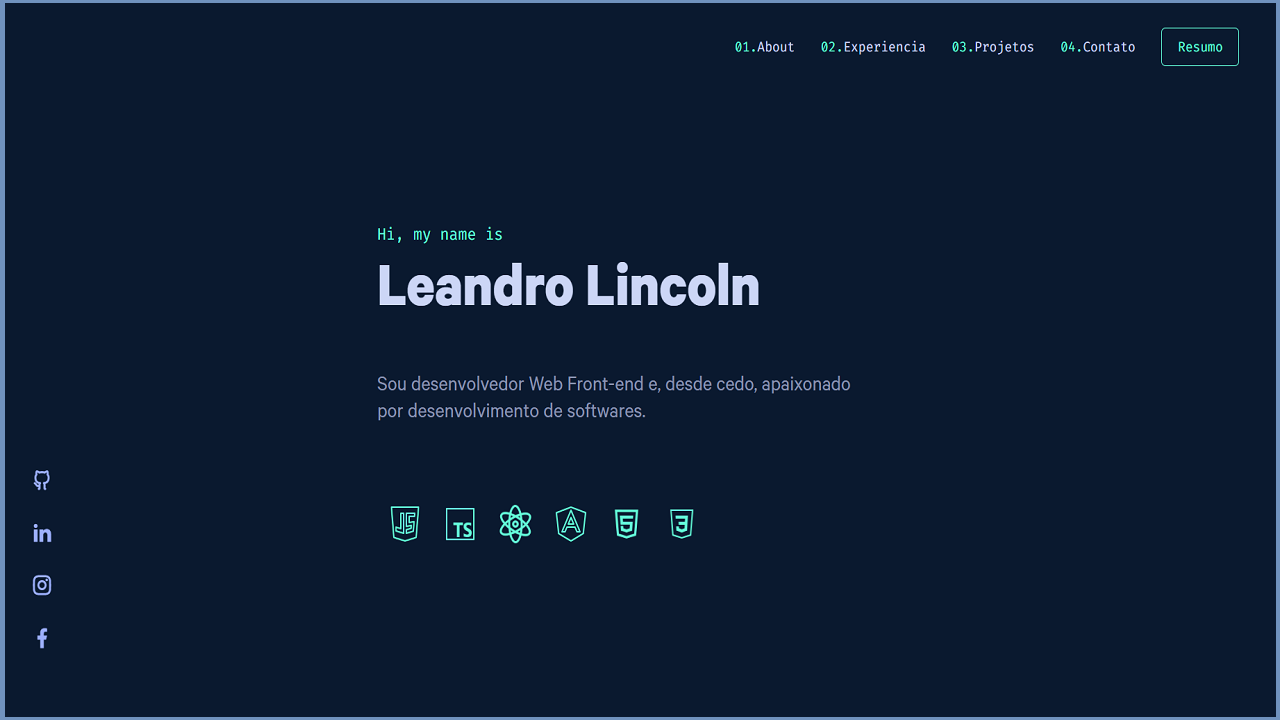
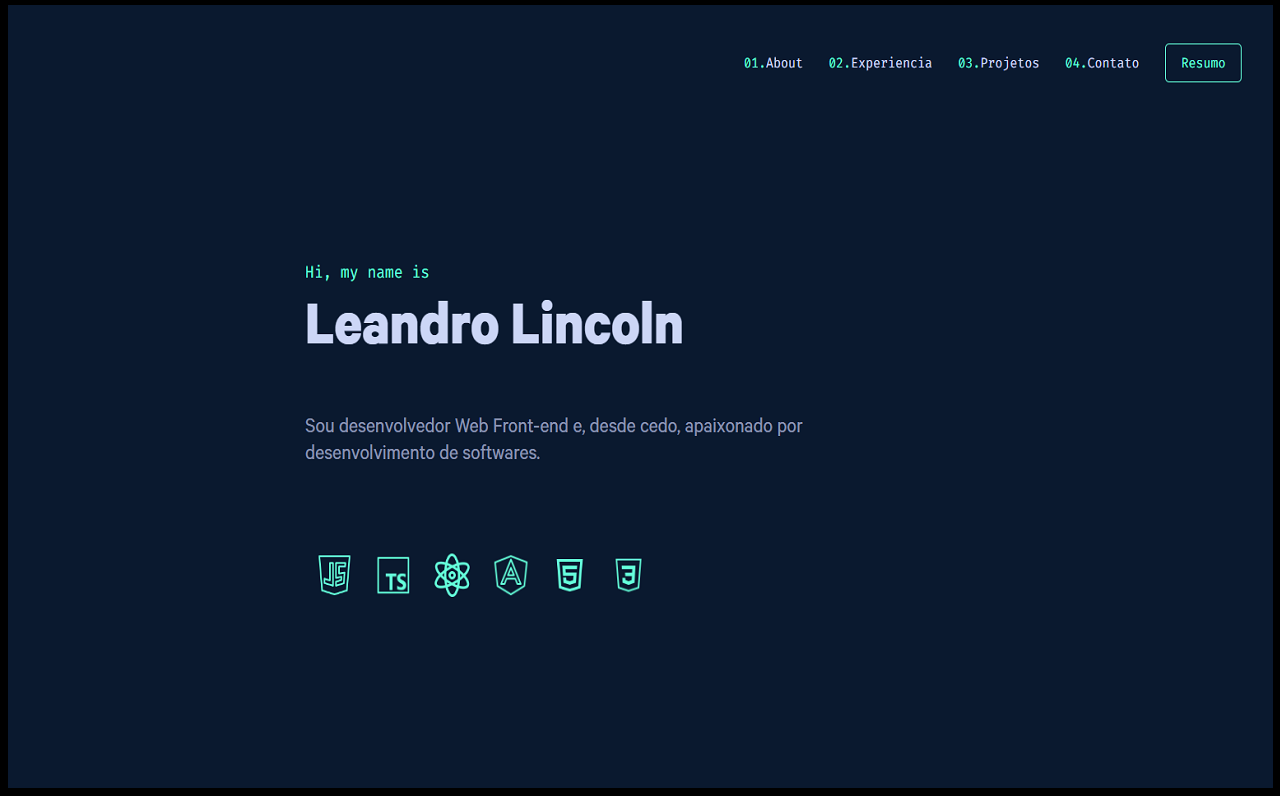
Ajustes CSS, barra lateral e contato

diff --git a/index.html b/index.html
@@ -8,7 +8,7 @@
     <meta charset="UTF-8">
     <meta http-equiv="X-UA-Compatible" content="IE=edge">
     <meta name="viewport" content="width=device-width, initial-scale=1.0">
-    <title>Portifolio</title>
+    <title>Portfolio</title>
     <link rel="stylesheet" href="./Styles/style.css">
 </head>
 
@@ -33,21 +33,26 @@
 
 
 
-    <!-- ================= NAV LATERAL ==================== -->
+    <!-- ================= NAV LATERAL ESQUERDA ==================== -->
 
 
-    <nav class="navLateral">
+    <nav class="navLateral-l">
         <a class="ri-github-line"  href="https://github.com/leandrolinkolnr" target="_blank"></a>
         <a class="ri-linkedin-fill" href="https://www.linkedin.com/in/leandrolincoln" target="_blank"></a>
         <a class="ri-instagram-line" href="https://www.instagram.com/leandrolinkoln/" target="_blank"></a>
         <a class="ri-facebook-fill" href="https://www.facebook.com/leandro.linkoln" target="_blank"></a>
-        <p>|</p>
-        <p>|</p>
-        <p>|</p>
+        
+        <div id="linha-vertical-l"></div>
 
     </nav>
 
 
+    <!-- ================= NAV LATERAL DIREITA ==================== -->
+
+    <nav class="navLateral-r">
+        <a class="navLateral-r__email" href="mailto:leandrolinkoln13@gmail.com?" target="_blank">leandrolinkoln13@gmail.com</a>
+        <div id="linha-vertical-r"></div>
+    </nav>
 
 
 <!-- ================= APRESENTAÇÃO PRINCIPAL ==================== -->
@@ -78,7 +83,7 @@
     <!-- ================= ABOUT ==================== -->
 
 
-        <h1 id="about" class="about__titulo">About.me  _____________________________</h1>
+        <h1 id="about" class="about__titulo">01. About.me  _____________________________</h1>
         <section class="conteudo__about"> 
         <xxx class="about__texto">
             
@@ -112,16 +117,16 @@
     <!-- ================= EXPERIENCIA ==================== -->
 
 
-    <h1 class="categoria__experiencia">Experiência  _____________________</h1>
+    <h1 id="experiencia" class="categoria__experiencia">Experiência  _____________________</h1>
 
-    <section id="experiencia" class="experienciaSection"> 
+    <section class="experienciaSection"> 
         <h3 class="experiencia__titulo"> Desenvolvedor front end</h3>
             <h6> Set 2022 - Mar 2023</h6>
         <br />
         <br />
         <p class="experiencia__texto"> Desenvolvedor web no Núcleo de Tecnologias Estratégicas em Saúde (NUTES),
             contribuindo como desenvolvedor front-end nos sistemas da Secretaria de Estado da Fazenda (Sefaz-PB), 
-            mais especificamente no Gostex: Gerenciador de notas fiscais dos postos de combustiveis da paraiba.
+            mais especificamente na Gerência Operacional de Fiscalização da Substituição Tributária e Comércio Exterior (GOSTEX).
         </p>
     </section>
 
@@ -138,7 +143,7 @@
     <section  class="projetos_section A"> 
         <p class="projetos__tituloA"> Cronômetro de estudos</p>
         <a href="https://alura-studies-rust.vercel.app" target="_blank"> 
-             <img class="projetos__imagem A" src="./assets/projetos/cronometro de estudos.JPG"> </a>
+             <img class="projetos__imagem A" src="./assets/projetos/cronometro de estudos.PNG"> </a>
         <p class="projetos__descriçãoA"> Esse gerenciador permite criar uma tarefa, atrubui-la um tempo e
             adiciona-la a lista. Para iniciar a tarefa, basta seleciona-la e clicar
             em 'começar'. Dessa forma, será iniciado o cronômetro com o tempo correspondente.</p>
@@ -163,7 +168,7 @@
     <section  class="projetos_section B"> 
         <p class="projetos__tituloB"> Cadastro de produtos</p>
         <a href="https://project-angular-ashen.vercel.app" target="_blank"> 
-             <img src="./assets/projetos/angular.JPG" class="projetos__imagemB" > </a>
+             <img src="./assets/projetos/angular.PNG" class="projetos__imagemB" > </a>
         <p class="projetos__descriçãoB"> A aplicação permite criar uma tarefa, atrubui-la um tempo e
             adiciona-la a lista. Para iniciar a tarefa, basta seleciona-la e clicar
             em 'começar'. Dessa forma, será iniciado o cronômetro com o tempo correspondente.</p>
@@ -189,7 +194,7 @@
        <section  class="projetos_section A"> 
         <p class="projetos__tituloA"> Cards: React & Redux </p>
         <a href="https://projeto-react-com-redux.vercel.app" target="_blank"> 
-             <img class="projetos__imagem A" src="./assets/projetos/cards_react_redux.JPG"> </a>
+             <img class="projetos__imagem A" src="./assets/projetos/cards_react_redux.PNG"> </a>
         <p class="projetos__descriçãoA"> Esta aplicação consiste em cards com informações que são
             apresentadas de acordo com os numeros escolhidos. Foi um simples exercicio
             que auxiliou no entendimento do Redux:  Uma poderosa biblioteca gerenciadora de estados.
@@ -235,8 +240,15 @@
 
      <!-- ================= CONTATO ==================== -->
 
-    <section id="contato" class="contato"> 
-        <h1 id="dois">Contate-me  _____________________</h1>
+    <section id="contato" class="contato__section"> 
+        <p id="dois" class="contato__titulo">Qual o proximo?</p>
+        <h1 class="contato__h1"> Entrar  em  contato</h1>
+        <div class="contato__icons">
+            <a href="https://wa.me/5583981936185" target="_blank"> 
+            <img  src="./assets/whatsapp.png" > </a>
+            <a href="mailto:leandrolinkoln13@gmail.com?" target="_blank"> 
+                <img  src="./assets/email.png" > </a>
+        </div>
     </section>
 
 

diff --git a/Styles/style.css b/Styles/style.css
@@ -43,7 +43,7 @@
   
 
 .cabecalho__menu__link {
-    font-size: 0.75rem;
+    font-size: 0.8rem;
     color: #CCD6F6;
     text-decoration: none;
     display: flex;
@@ -126,16 +126,16 @@ body{
 
 
 
+/* ============ NAV LATERAL LEFT ============= */
 
 
-
-.navLateral{
+.navLateral-l{
     display: flex;
     flex-direction: column;
     position: fixed;
-    margin-top: 27%;
+    margin-top: 30%;
     margin-left: 3%;
-    gap: 25px;
+    gap: 30px;
     font-size: 1.3rem;
 
 }
@@ -177,6 +177,55 @@ body{
     color: #64FFDA;
 }
 
+#linha-vertical-l {
+    height: 200px;
+    border-right: 1px solid #CCD6F6;
+    position: fixed;
+    margin-top: 11%;
+    margin-left: 0.5%;
+}
+
+
+
+
+
+/* ============ NAV LATERAL RIGHT ============= */
+
+.navLateral-R{
+    display: flex;
+    flex-direction: column;
+    position: fixed;
+    /* margin-top: 90%; */
+    margin-left: 35%;
+    gap: 25px;
+    font-size: 1.3rem;
+}
+
+.navLateral-r__email{
+    position: fixed;
+    margin-left: 91%;
+    margin-top: 33.7%;
+    transform: rotate(90deg);
+    color: #86a0f5;
+    font-size: 0.8rem;
+    letter-spacing: 2.5px;
+    text-decoration: none;
+}
+
+.navLateral-r__email:hover{
+
+    color: #64FFDA;
+
+}
+
+#linha-vertical-r {
+    height: 200px;
+    border-right: 1px solid #CCD6F6;
+    position: fixed;
+    margin-top: 41.1%;
+    margin-left: 96.8%;
+}
+
 
 
 
@@ -188,14 +237,14 @@ body{
 
 
 .about__titulo {
-    padding: 4% 20% 0% 28%;
+    padding: 6% 20% 0% 26%;
     color: #CCD6F6;
 }
 
 
 .conteudo__about {
     /* padding: 0% 20% 15% 15%; */
-    margin: 2% 29% 0% 28%;
+    margin: 2% 27% 0% 26%;
 
     display: flex;
     align-items: flex-start;
@@ -223,11 +272,15 @@ body{
 .about__lista {
     display: flex;
     flex-direction: row; 
-    /* margin: 0% 0% 0% 0%; */
+    margin-left: 4%;
+    gap: 33px;
+    list-style:url('../assets/marcador.PNG')
+
 }
 
 .about__lista__item {
     margin: 10% 5% 0% 0%;
+    
     
 }
 
@@ -237,7 +290,8 @@ body{
 
 
 .categoria__experiencia{
-    margin-top: 9%;
+    margin-top: 0%;
+    padding-top: 14%;
     margin-left: 33%;
 }
 
@@ -271,7 +325,7 @@ h6 {
 
 .projetosH1 {
     margin: 0% 5% 5% 26%;
-    padding-top: 0%;
+    padding-top: 10%;
     font-family: 'Calibre', sans-serif;
 }
 
@@ -367,7 +421,7 @@ h6 {
 
 
 
-/* ============================================================= */
+/* ================ PROJETOS ========================== */
 
 
 .projetos_section .B {
@@ -379,7 +433,7 @@ h6 {
     filter: brightness(0.3);
     position: relative;
 
-    left: 20%;
+    left: 33%;
     width: 45%;
 }
 
@@ -404,7 +458,7 @@ h6 {
     font-size: 1rem;
     /* text-align: justify; */
     top: 30%;
-    right: 70%;
+    right: 61.5%;
     left: 0%;
     color: #8892B0;
     padding: 1.5% 1.5% 1.5% 1.5% ;
@@ -446,12 +500,45 @@ h6 {
 
 
 
-/* ============================================== */
+/* ================ CONTATO ===================== */
 
 
-.contato {
-    margin: 25% 0% 35% 15%;
+.contato__section {
+    /* margin: 35% 25% 55% 35%; */
+    margin-top: 5%;
+    margin-left: 36.5%;
+    margin-right: 35%;
+    margin-bottom: 20%;
+    display: flex;
+    align-items: center;
+    justify-content: center;
+    flex-direction: column;
+    
 }
+
+.contato__titulo{
+    margin-bottom: 3%;
+    color: #64FFDA;
+    font-family: 'Fira Code', monospace;
+    font-size: 0.9rem; 
+}
+
+.contato__h1 {
+    letter-spacing: 3.5px;
+    font-family: 'Calibre', sans-serif;
+    color: #8892B0;
+}
+
+.contato__icons {
+    display: flex;
+    flex-direction: row;
+    margin-top: 5%;
+    gap: 27px;
+}
+
+
+
+/* ============= RODAPE ==================== */
 
 .rodape{
     display: flex;
